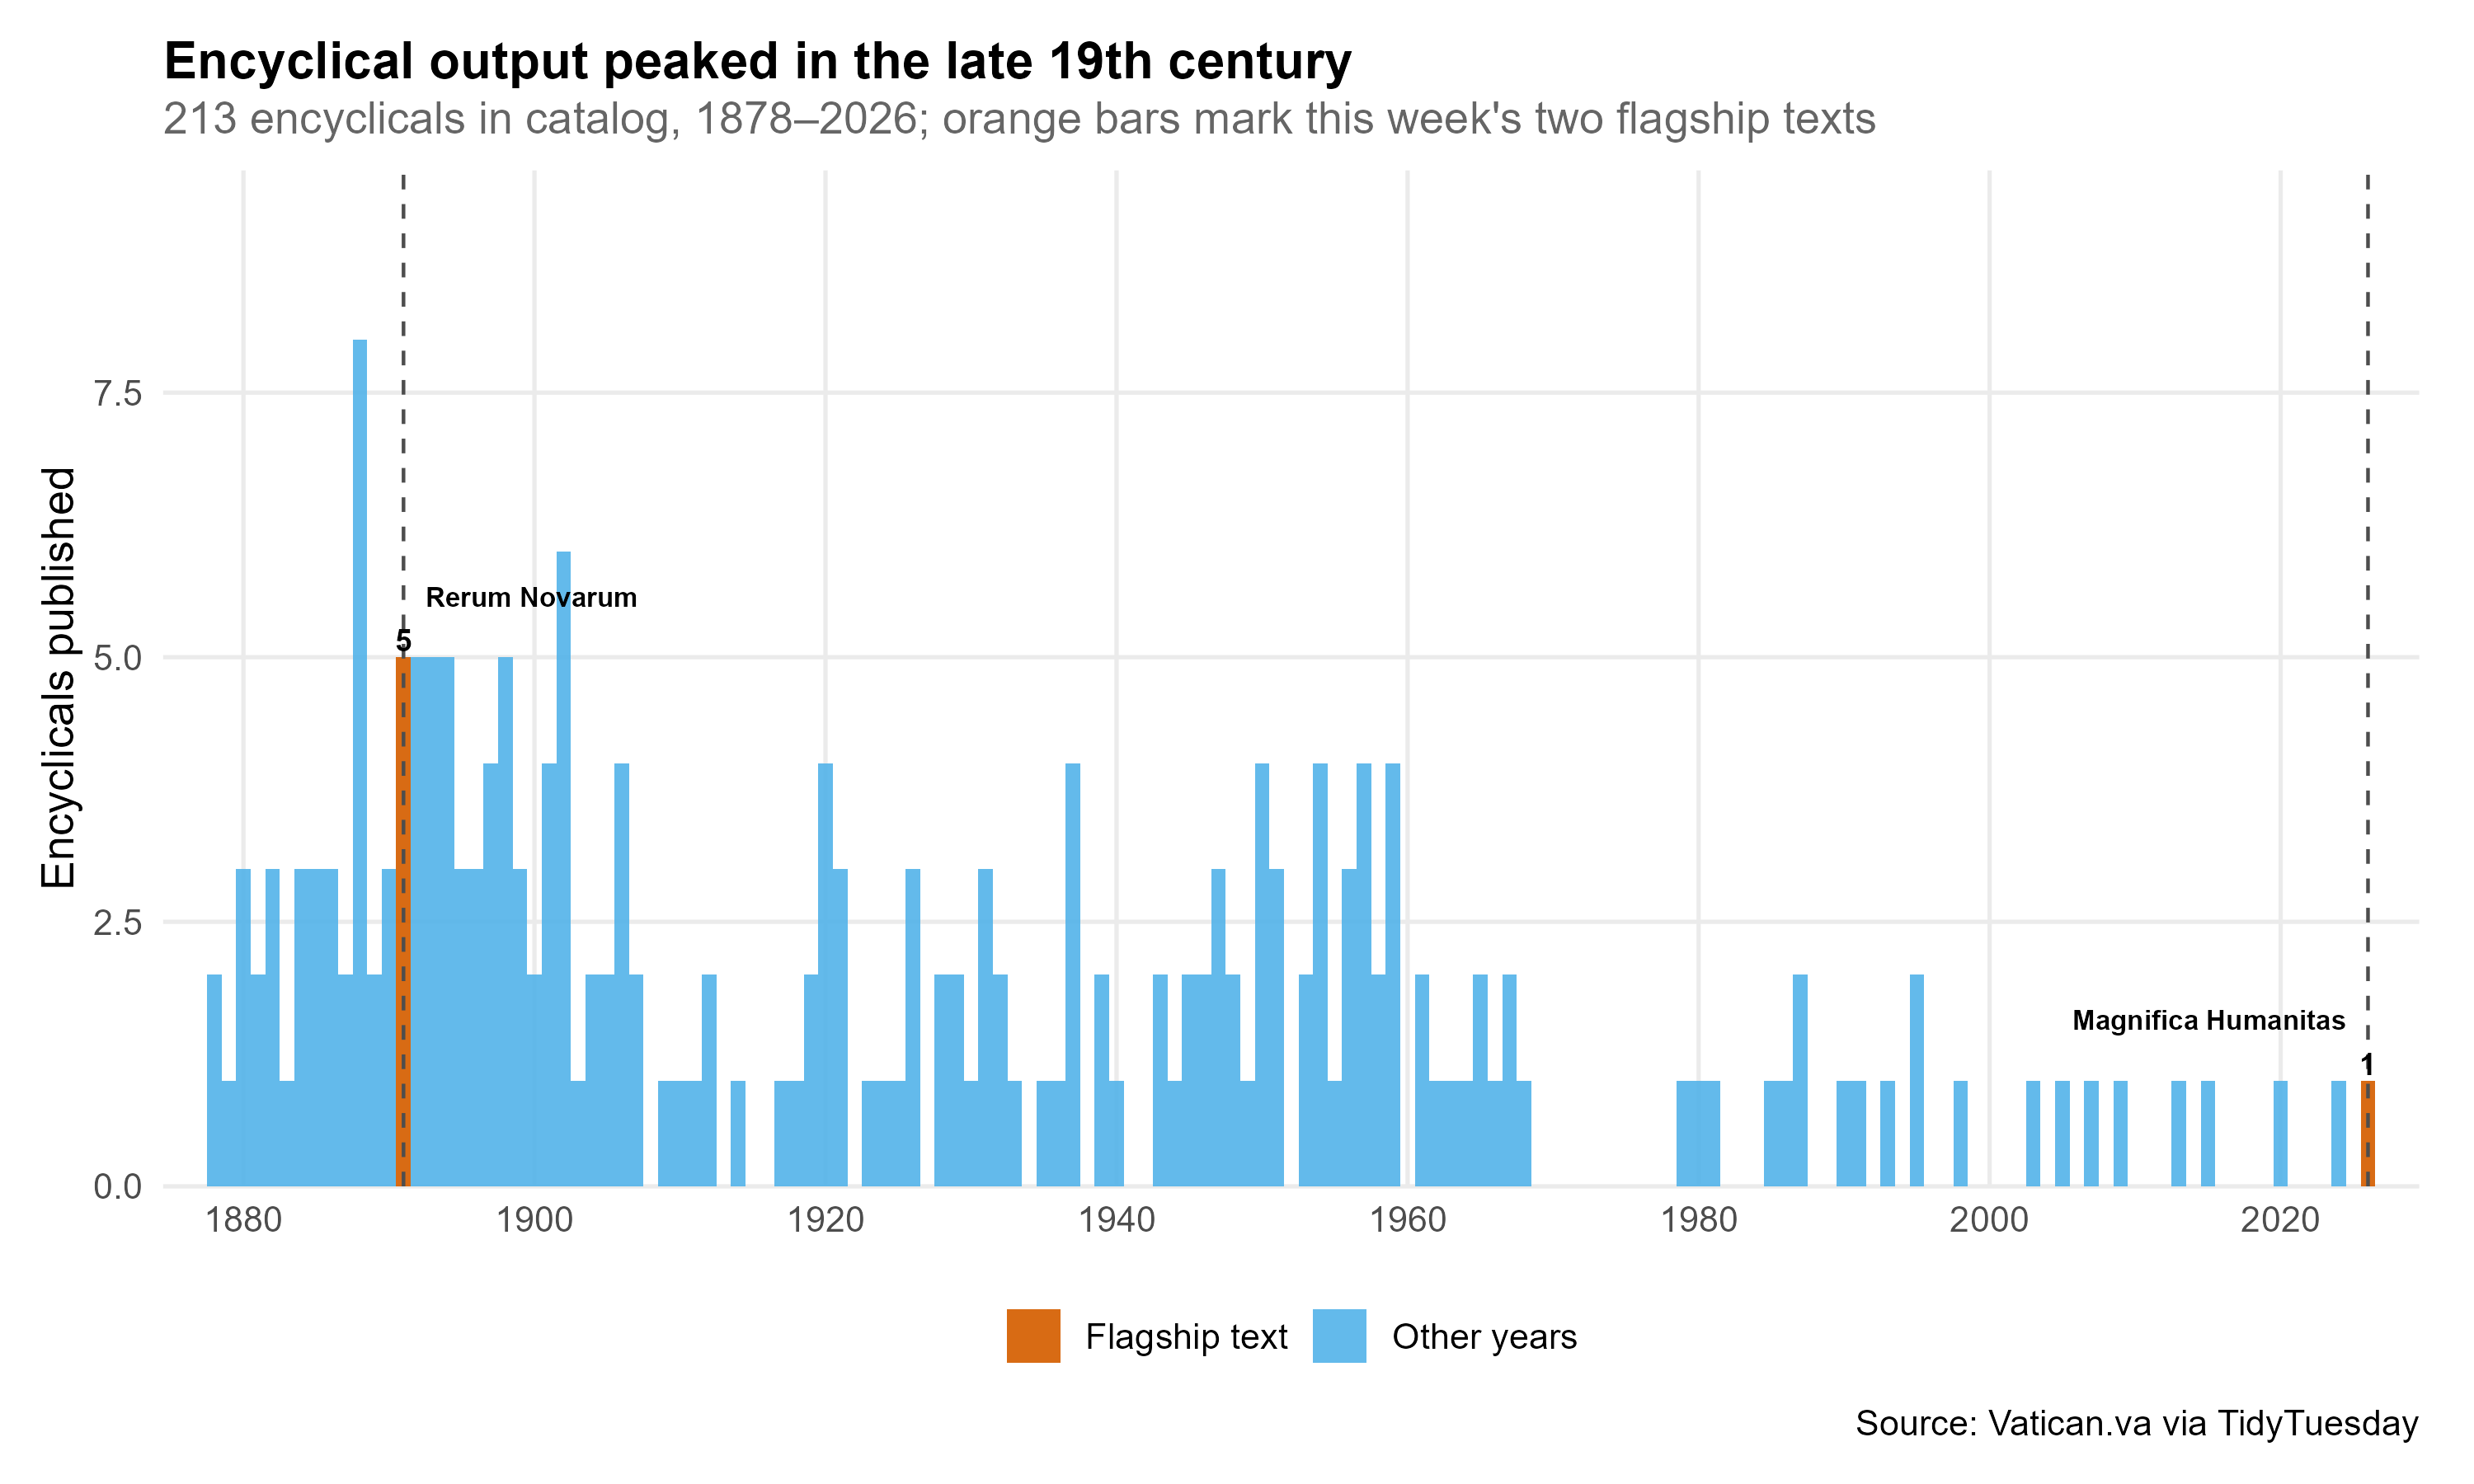
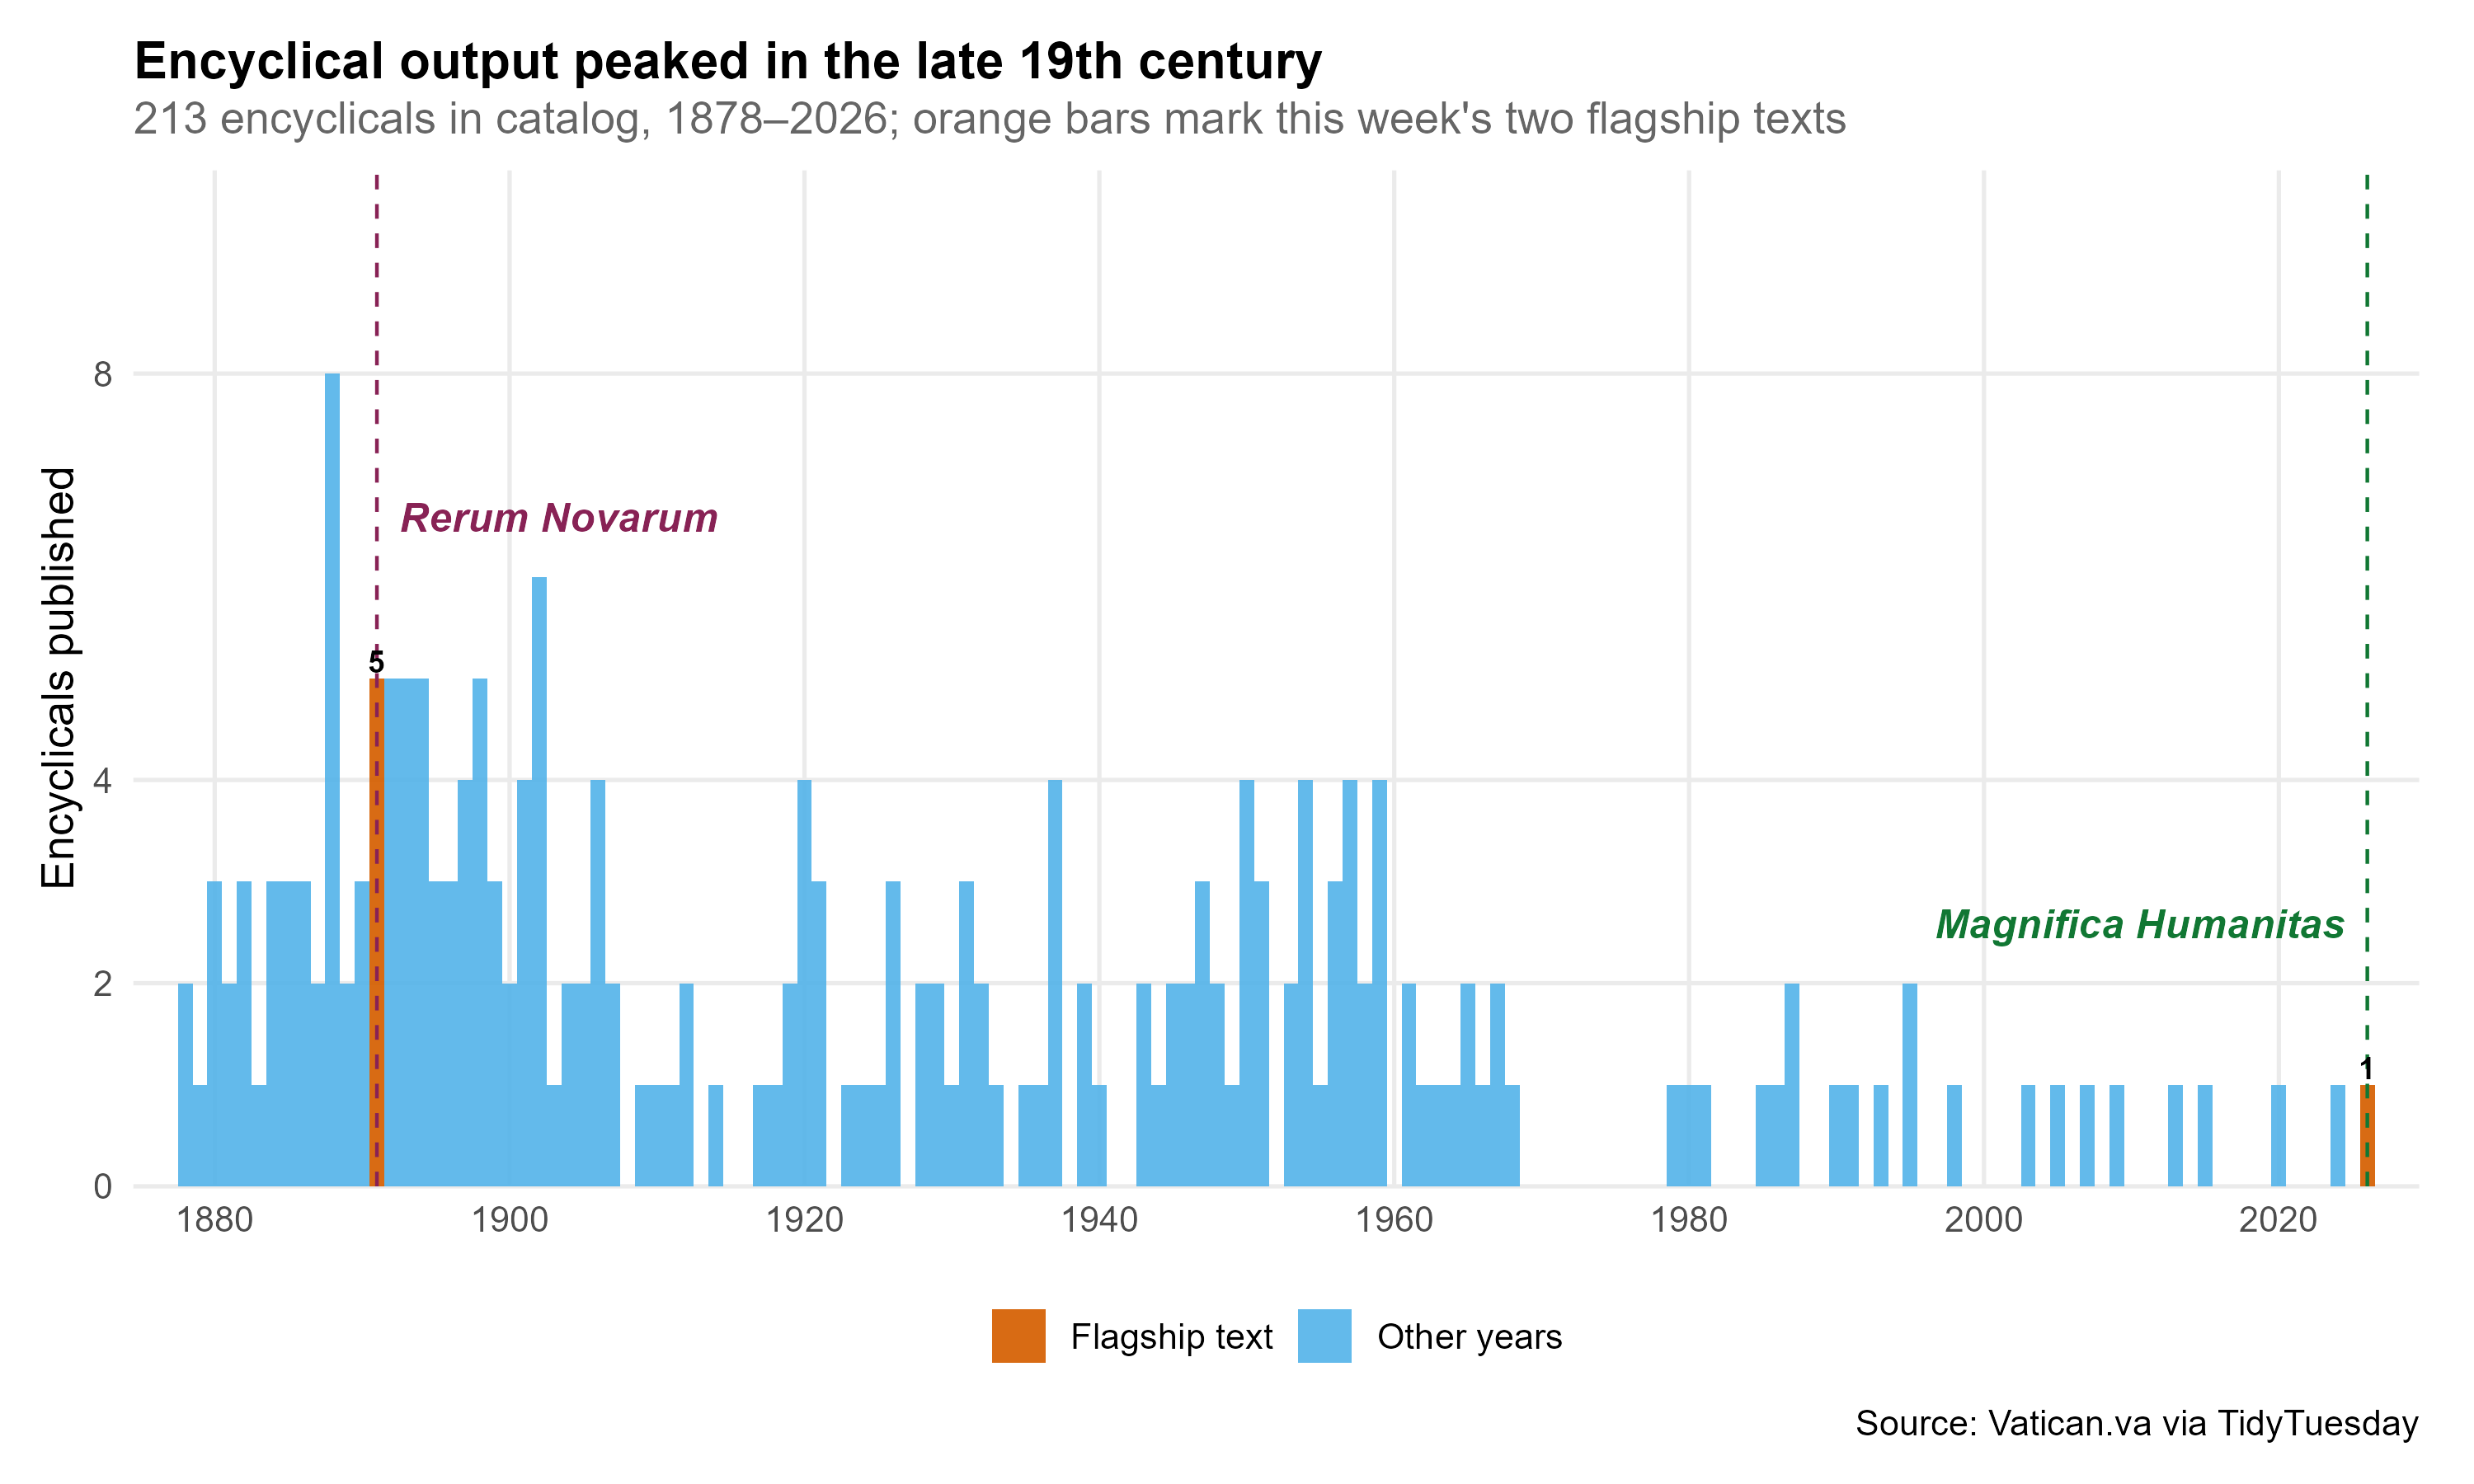
Polish papal flagship chart and add LinkedIn share draft.
Annotation colors for RN/MH labels and dashed lines are distinct from legend bar fills; docs and LINKEDIN.md prepared for TidyTuesday social share.

diff --git a/2026_06_23_papal_encyclicals/analysis.html b/2026_06_23_papal_encyclicals/analysis.html
@@ -163,7 +163,7 @@ pre > code.sourceCode > span > a:first-child::before { text-decoration: underlin
 </details>
 </div>
 <p>Data from <a href="https://github.com/rfordatascience/tidytuesday/tree/main/data/2026/2026-06-23">TidyTuesday 2026-06-23</a>: paragraph text from <em>Rerum Novarum</em> (1891) and <em>Magnifica Humanitas</em> (2026), a catalog of 213 papal encyclicals, and scripture citations extracted from both texts.</p>
-<p>Charts below are the same static PNGs saved to <code>output/</code> by <code>run.R</code> — black value labels sit just outside each bar.</p>
+<p>Charts below are the static PNGs saved to <code>output/</code> by <code>run.R</code> — same files used for LinkedIn and slides.</p>
 <blockquote class="blockquote">
 <p>“Humanity, created by God in all its grandeur, is today facing a pivotal choice: either to construct a new Tower of Babel or to build the city in which God and humanity dwell together.” — Pope Leo XIV, <em>Magnifica Humanitas</em> §1</p>
 </blockquote>

diff --git a/2026_06_23_papal_encyclicals/LINKEDIN.md b/2026_06_23_papal_encyclicals/LINKEDIN.md
@@ -1,0 +1,77 @@
+# LinkedIn post draft — TidyTuesday Papal Encyclicals
+
+**Strategy:** Carousel of 3 chart images (one per takeaway) + link to the **static** Quarto report (same PNGs as `output/`). LinkedIn cannot embed the full report — the link is where readers explore all eight charts.
+
+**Report:** https://nvavrock.github.io/tidytuesday/2026_06_23_papal_encyclicals/analysis.html
+
+---
+
+## Post text (copy below)
+
+This week I joined #TidyTuesday and compared two papal encyclicals that bookend 135 years of technological change: Pope Leo XIII's *Rerum Novarum* (1891, the Industrial Revolution) and Pope Leo XIV's *Magnifica Humanitas* (2026, the AI era).
+
+Three things stood out (swipe the carousel):
+
+1. **Encyclical output over time** — Volume peaked in the late 19th century; Leo XIII alone wrote 86. Orange bars mark the two texts we study. Modern popes also teach through speeches and other formats not in this catalog.
+
+2. **Vocabulary shift** — *Rerum Novarum* leans industrial and labor language; *Magnifica Humanitas* brings in technology, digital, and intelligence. Catholic social teaching vocabulary tracks the era.
+
+3. **Theme words** — A hand-picked word list shows technology and AI terms appear only in the 2026 text, while dignity and labor language spans both.
+
+All criticism welcome — charts, copy, or angles I should have explored.
+
+**Full report** (eight charts + tables): https://nvavrock.github.io/tidytuesday/2026_06_23_papal_encyclicals/analysis.html
+
+Code: https://github.com/nvavrock/tidytuesday/tree/main/2026_06_23_papal_encyclicals
+
+Data: Vatican.va via TidyTuesday; curated by Tony Galvan  
+https://github.com/rfordatascience/tidytuesday/tree/main/data/2026/2026-06-23
+
+#TidyTuesday #RStats #DataViz #DataScience
+
+---
+
+## Carousel images (attach in this order)
+
+| Slide | File | Matches takeaway |
+|-------|------|------------------|
+| 1 | `output/01_encyclical_output_over_time.png` | Encyclical output over time |
+| 2 | `output/05_vocabulary_contrast.png` | Vocabulary shift (log-odds) |
+| 3 | `output/05b_theme_words.png` | Theme word counts |
+
+Before posting, confirm PNGs match the report:
+
+```r
+source("run_week.R"); run_week("2026_06_23_papal_encyclicals")
+source("render_week.R"); render_week("2026_06_23_papal_encyclicals")
+```
+
+---
+
+## Alt text (LinkedIn image description — one per slide)
+
+**Slide 1 — Encyclical output:**  
+Bar chart of papal encyclicals published per year from 1878 to 2026. Orange bars mark flagship years; burgundy and green dashed lines label *Rerum Novarum* (1891) and *Magnifica Humanitas* (2026). Output peaks in the late 1800s.
+
+**Slide 2 — Vocabulary contrast:**  
+Horizontal bar chart of log-odds word contrasts between the two encyclicals. Words to the right are more common in *Rerum Novarum* (labor, workers, industry); words to the left are more common in *Magnifica Humanitas* (technology, digital, intelligence).
+
+**Slide 3 — Theme words:**  
+Grouped bar chart of counts for hand-picked theme words (dignity, labor, technology) in each encyclical. Technology and AI terms appear only in the 2026 text.
+
+---
+
+## Before posting
+
+- [ ] Push project to public GitHub repo
+- [ ] Host report on GitHub Pages; confirm URL loads
+- [ ] Upload carousel slides 1–3 from `output/` (in order above)
+- [ ] Paste alt text for each slide in LinkedIn's image description field
+- [ ] Post published on LinkedIn
+- [ ] Optional: comment on the [TidyTuesday LinkedIn announcement](https://www.linkedin.com/in/lgibson7/) with your report link
+
+---
+
+## Note
+
+Share findings on **social media** with `#TidyTuesday`, not as a pull request to the official dataset repo. Credit [Vatican.va](https://www.vatican.va) and Tony Galvan via [TidyTuesday](https://tidytues.day).

diff --git a/2026_06_23_papal_encyclicals/README.md b/2026_06_23_papal_encyclicals/README.md
@@ -1,40 +1,84 @@
 # Papal Encyclicals — TidyTuesday 2026-06-23
 
+
+
 Week 25 analysis: papal encyclicals from the Industrial Revolution to the AI Revolution.
+
+
 
 ## Run
 
+
+
 From project root:
 
+
+
 ```r
+
 source("run_week.R")
+
 run_week("2026_06_23_papal_encyclicals")
+
 ```
+
+
 
 Or from this folder:
 
+
+
 ```r
+
 source("../install_packages.R")
+
 source("run.R")
+
 ```
+
+
 
 ## Report
 
+
+
 Open [analysis.html](analysis.html) in a browser, open `analysis.qmd` and click **Render** in RStudio, or render from project root:
 
+
+
 ```r
+
 source("render_week.R")
+
 render_week("2026_06_23_papal_encyclicals")
+
 ```
+
+
+
+The HTML report embeds static PNGs from `output/` (not plotly). Run `run_week()` before `render_week()` so charts stay in sync.
+
+
 
 ## Outputs
 
-- `output/` — 8 charts + 4 summary CSVs
-- `analysis.qmd` / `analysis.html` — full report
+
+
+- `output/` — 8 charts + 4 summary CSVs (300 dpi PNGs for LinkedIn and slides)
+
+- `analysis.qmd` / `analysis.html` — static report (same PNGs as `output/`)
+
 - `NOTES.md` — plain-language briefing for sharing with non-technical readers
+
+
 
 ## Data
 
+
+
 Official dataset: https://github.com/rfordatascience/tidytuesday/tree/main/data/2026/2026-06-23
 
+
+
 Local copies in `data/`.
+

diff --git a/README.md b/README.md
@@ -17,26 +17,26 @@ source("install_packages.R")
 
 ```r
 source("run_week.R")
-run_week("2026_06_16_uk_baby_names")
+run_week("2026_06_23_papal_encyclicals")   # or 2026_06_16_uk_baby_names
 ```
 
 4. Render the report:
 
 ```r
 source("render_week.R")
-render_week("2026_06_16_uk_baby_names")
+render_week("2026_06_23_papal_encyclicals")
 ```
 
-Or open `2026_06_16_uk_baby_names/analysis.qmd` and click **Render** in RStudio.
+Or open that week's `analysis.qmd` and click **Render** in RStudio.
 
-After chart changes, run both `run_week()` (updates `output/` PNGs) and `render_week()` (updates `analysis.html`).
+After chart changes, run both `run_week()` (updates `output/` PNGs) and `render_week()` (updates `analysis.html`). For the papal encyclicals week, the HTML report embeds those PNGs directly.
 
 ## Weeks
 
-| Date | Topic | Folder |
-|------|-------|--------|
-| 2026-06-16 | UK Baby Names | [2026_06_16_uk_baby_names/](2026_06_16_uk_baby_names/) |
-| 2026-06-23 | Papal Encyclicals | [2026_06_23_papal_encyclicals/](2026_06_23_papal_encyclicals/) |
+| Date | Topic | Folder | HTML report |
+|------|-------|--------|-------------|
+| 2026-06-16 | UK Baby Names | [2026_06_16_uk_baby_names/](2026_06_16_uk_baby_names/) | Interactive (plotly) |
+| 2026-06-23 | Papal Encyclicals | [2026_06_23_papal_encyclicals/](2026_06_23_papal_encyclicals/) | Static PNG embeds |
 
 ## Project layout
 
@@ -46,10 +46,17 @@ tidytuesday/
 ├── install_packages.R       # shared packages
 ├── run_week.R               # run any week folder
 ├── render_week.R            # render Quarto report for a week
-└── 2026_06_16_uk_baby_names/
+├── 2026_06_16_uk_baby_names/
+│   ├── run.R
+│   ├── analysis.qmd
+│   ├── NOTES.md
+│   ├── data/
+│   ├── output/
+│   └── R/
+└── 2026_06_23_papal_encyclicals/
     ├── run.R
     ├── analysis.qmd
-    ├── NOTES.md               # layman's briefing for sharing
+    ├── NOTES.md
     ├── data/
     ├── output/
     └── R/

diff --git a/2026_06_23_papal_encyclicals/NOTES.md b/2026_06_23_papal_encyclicals/NOTES.md
@@ -2,7 +2,7 @@
 
 Plain-language guide for sharing this project with people who are not data scientists.
 
-**Interactive report:** [analysis.html](analysis.html)  
+**Full report:** [analysis.html](analysis.html) (static charts; same PNGs as `output/`)  
 **Data source:** [TidyTuesday](https://github.com/rfordatascience/tidytuesday/tree/main/data/2026/2026-06-23) · Vatican.va · curated by Tony Galvan
 
 ---
@@ -34,8 +34,8 @@ An **encyclical** is a formal letter from a Pope to the whole Church on an impor
 
 ### `01_encyclical_output_over_time.png`
 **What:** How many encyclicals were published each year since 1878.  
-**Story:** Output was highest in the late 1800s and early 1900s. Orange bars mark the two encyclicals we study (1891 and 2026).  
-**Caveat:** Modern Popes also teach through speeches, tweets, and other formats not in this catalog.
+**Story:** Output was highest in the late 1800s and early 1900s. Orange bars mark the two encyclicals we study (1891 and 2026); *Rerum Novarum* and *Magnifica Humanitas* are labeled in bold italic beside the dashed lines.  
+**Caveat:** Y-axis uses whole-number ticks (0, 2, 4, 8) up to 10. Modern Popes also teach through speeches, tweets, and other formats not in this catalog.
 
 ### `02_encyclicals_per_pope.png`
 **What:** Total encyclicals per Pope (top 12).  
@@ -84,6 +84,8 @@ An **encyclical** is a formal letter from a Pope to the whole Church on an impor
 ---
 
 ## How to regenerate
+
+Run charts first, then render the HTML report (same PNGs appear in `analysis.html`):
 
 ```r
 source("run_week.R"); run_week("2026_06_23_papal_encyclicals")

diff --git a/2026_06_16_uk_baby_names/README.md b/2026_06_16_uk_baby_names/README.md
@@ -29,8 +29,8 @@ render_week("2026_06_16_uk_baby_names")
 
 ## Outputs
 
-- `output/` — 6 charts + 3 summary CSVs
-- `analysis.qmd` / `analysis.html` — full report
+- `output/` — 6 charts + 3 summary CSVs (static PNGs for LinkedIn)
+- `analysis.qmd` / `analysis.html` — interactive report (plotly hover)
 - `NOTES.md` — plain-language briefing for sharing with non-technical readers
 - `LINKEDIN.md` — draft social post
 

diff --git a/CONTRIBUTING.md b/CONTRIBUTING.md
@@ -15,6 +15,7 @@ LLM assistance is fine. Committing unreviewed model output is not.
 ### Quality and hygiene
 
 - Match existing project style: tidyverse pipelines, week folders, `run.R` / `analysis.qmd` / `NOTES.md` patterns, minimal comments.
+- Papal encyclicals week: `analysis.qmd` embeds PNGs from `output/` via `save_plots.R`; UK baby names week uses plotly in HTML. Run `run_week()` before `render_week()` when charts change.
 - Do not leave LLM artifacts in the tree: debug logging, `#region agent log` blocks, temporary path hacks, or narrating comments that restate the code.
 - Do not commit editor or LLM session files (for example `.cursor/debug*.log`, `.claude/`, local `.git_commit_msg.txt`). Project Cursor rules under `.cursor/rules/` are intentional and may be committed.
 